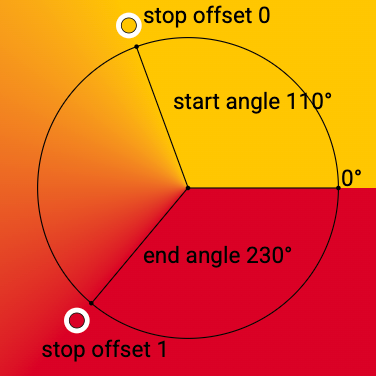
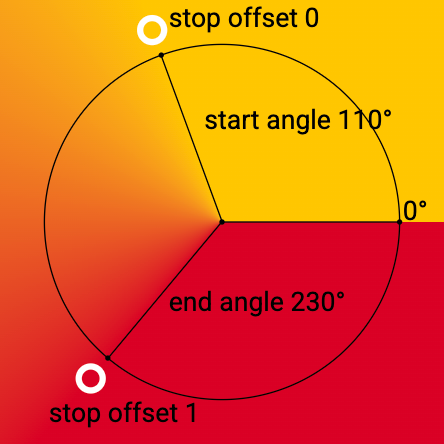
Reference to figure 5.28, images updated without extra black line

diff --git a/images/colr_conic_gradient_stop_angle_outside.html b/images/colr_conic_gradient_stop_angle_outside.html
@@ -30,13 +30,9 @@
     }
     .st3 {
       fill: #ffc600;
-      stroke: #000000;
-      stroke-width: 2;
     }
     .st4 {
       fill: #da0025;
-      stroke: #000000;
-      stroke-width: 2;
     }
   </style>
   <g>

diff --git a/images/colr_conic_gradient_inverted.html b/images/colr_conic_gradient_inverted.html
@@ -30,13 +30,9 @@
     }
     .st3 {
       fill: #da0025;
-      stroke: black;
-      stroke-width: 2;
     }
     .st4 {
       fill: #ffc600;
-      stroke: black;
-      stroke-width: 2;
     }
   </style>
   <g>

diff --git a/images/colr_conic_gradient_start_stop_angles.html b/images/colr_conic_gradient_start_stop_angles.html
@@ -30,13 +30,9 @@
     }
     .st3 {
       fill: #ffc600;
-      stroke: black;
-      stroke-width: 2;
     }
     .st4 {
       fill: #da0025;
-      stroke: black;
-      stroke-width: 2;
     }
   </style>
   <g>

diff --git a/OFF_AMD2_WD.md b/OFF_AMD2_WD.md
@@ -621,7 +621,8 @@ equal, nothing must be drawn.
 NOTE: When the sweep gradient's ColorLine uses the repeat or reflect extend mode
 and, the angular distance between start and end angle is small, results in very
 high spatial-frequency transitions that can lead to Moiré patterns or other
-display artifacts.
+display artifacts (compare Figure 5.28 where this effect is shown for radial
+gradients).
 
 Figure 5.30 illustrates a sweep gradient with the drawing direction progressing
 from 0° to 360°. The gradient is specified with a start angle of 110° and end
@@ -654,7 +655,7 @@ line.](images/colr_conic_gradient_inverted.png)
 
 **Figure 5.31 A sweep gradient, from yellow to red, with start angle of 210° and
 end angle of 110°, showing the inversion of the color line when the start angle
-is larger than the end angle.
+is larger than the end angle.**
 
 ![A sweep gradient, from yellow to red, with start angle of 330° and an end angle
 of 400°.](images/colr_conic_gradient_stop_angle_outside.png)
